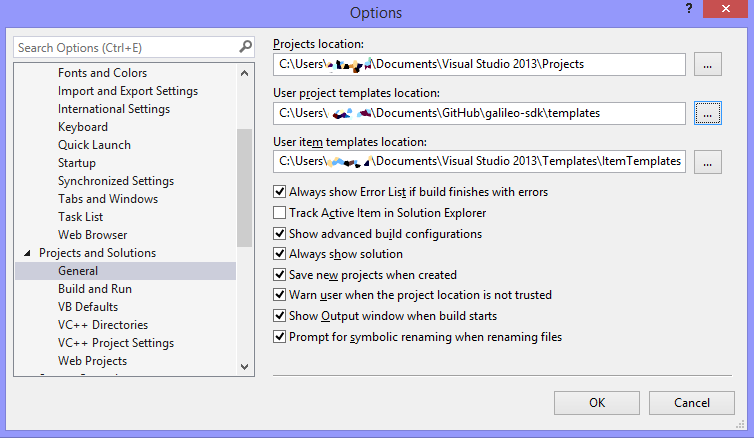
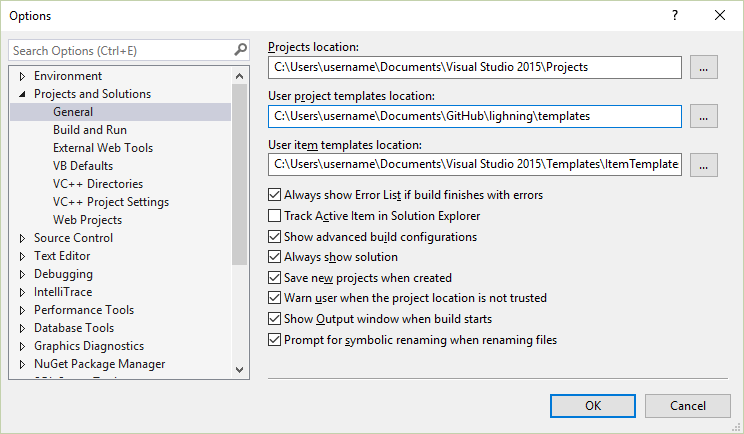
Update docs and images

diff --git a/README.md b/README.md
@@ -3,6 +3,14 @@ This repository is for generating the Windows Developer Program for IoT Nuget pa
 
 This nuget package depends on Microsoft.IoT.SDKFromArduino, which contains source files written by the Arduino community. Together these packages ensure compatibility with existing sketches running on Microsoft Windows.
 
+##Build the Nuget package
+Please download the Nuget command line utility [nuget.exe](http://nuget.org/nuget.exe) into the lightning and arduino-sdk .\source folders.
+Run the Nuget package builder from the .\source folder:
+
+~~~
+build-nupkg.cmd
+~~~
+
 ##Configure Visual Studio
 You'll want to redirect visual studio's *user templates* to the repository you are working in.
 *Tools -> Options*
@@ -18,7 +26,7 @@ In order to install nuget packages from your local builds, you'll need to add bo
 For Visual Studio Express, nativate to *Tools -> Nuget Package Manager -> Package Manager Settings*
 For Other editions of Visual Studio, nativate to *Tools -> Library Package Manager -> Package Manager Settings*
 
-![Package Config](images/Nuget_PackageSourceConfig_VSU2013.png)
+![Package Config](images/Nuget_PackageSourceConfig_VS2015.png)
 
 
 1. Click the "+" button to add a new source
@@ -26,10 +34,14 @@ For Other editions of Visual Studio, nativate to *Tools -> Library Package Manag
 1. Click the "..." button and navigate to your local sources directory (.\source folder)
 1. Click the "Update" button to save the Package Sources changes
 
-##Build the Nuget package
-Please download the Nuget command line utility [nuget.exe](http://nuget.org/nuget.exe) into the lightning and arduino-sdk .\source folders.
-Run the Nuget package builder from the .\source folder:
+###Nuget Package Manager
 
-~~~
-build-nupkg.cmd
-~~~
+In order to install prerelease (current) version of Lighning as well as receive prerelease updates to the Lightning package, make sure to set the "Include prerelease" option in the Nuget Package Manager.
+
+![Package Config](images/Nuget_PackageManager.PNG)
+
+1. Right click References in your project
+1. Click "Manager Nuget Packages..."
+1. Select package sources for Lightning nuget
+1. Click "Include prerelease".
+
